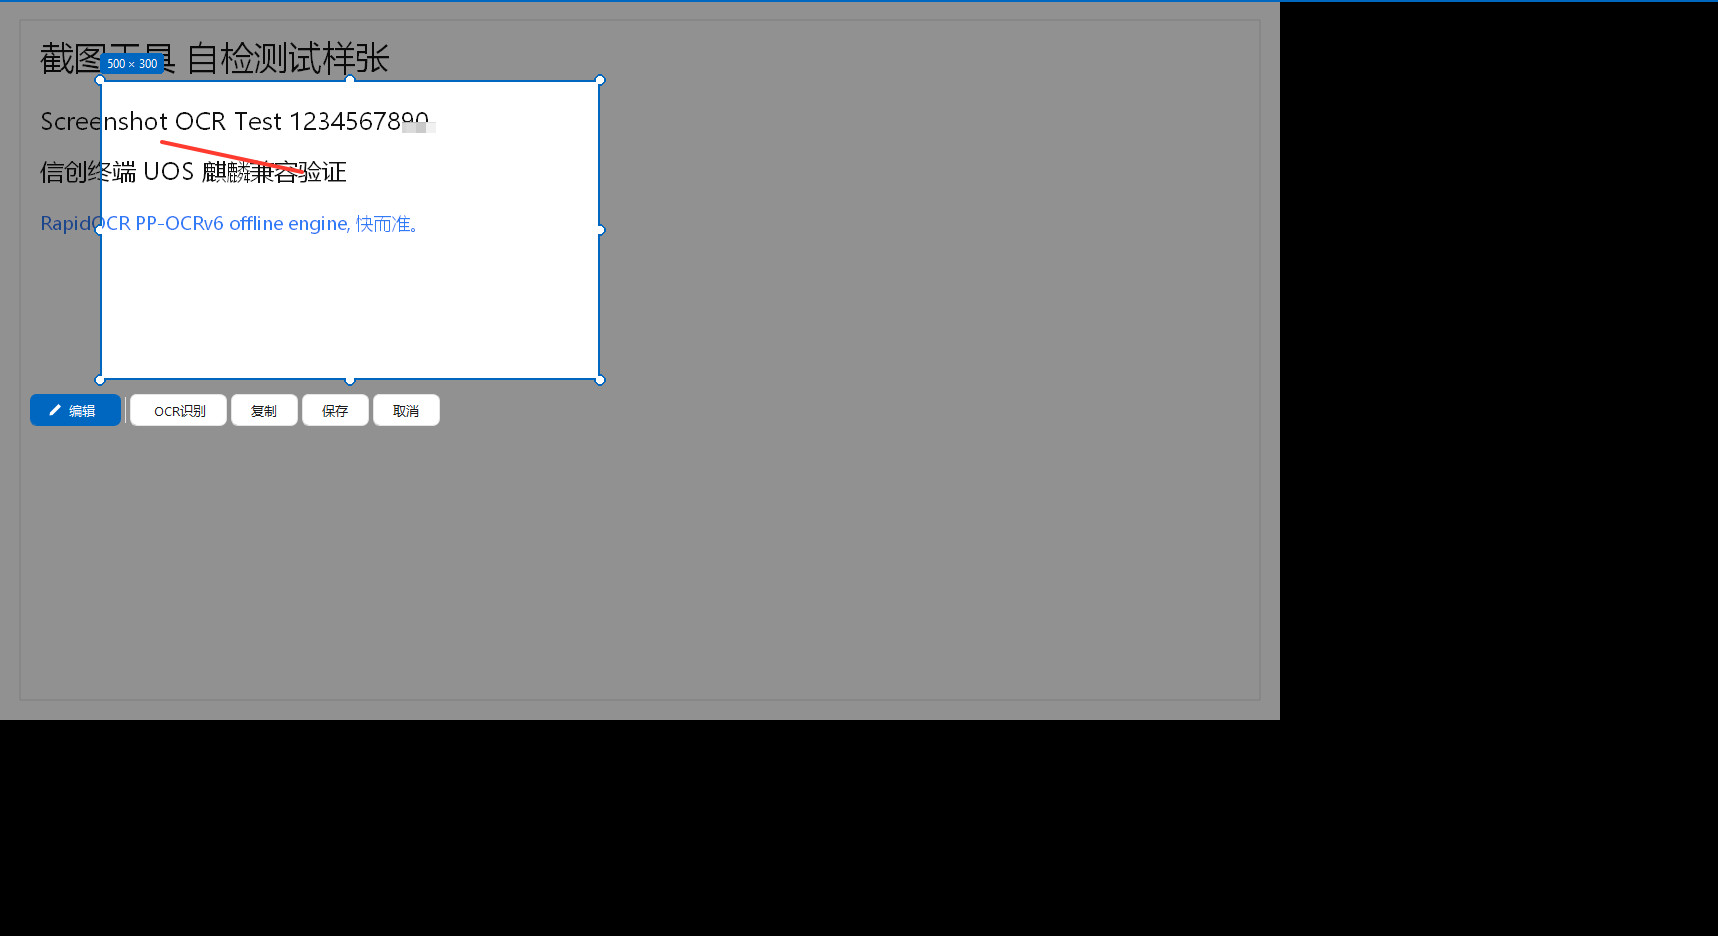
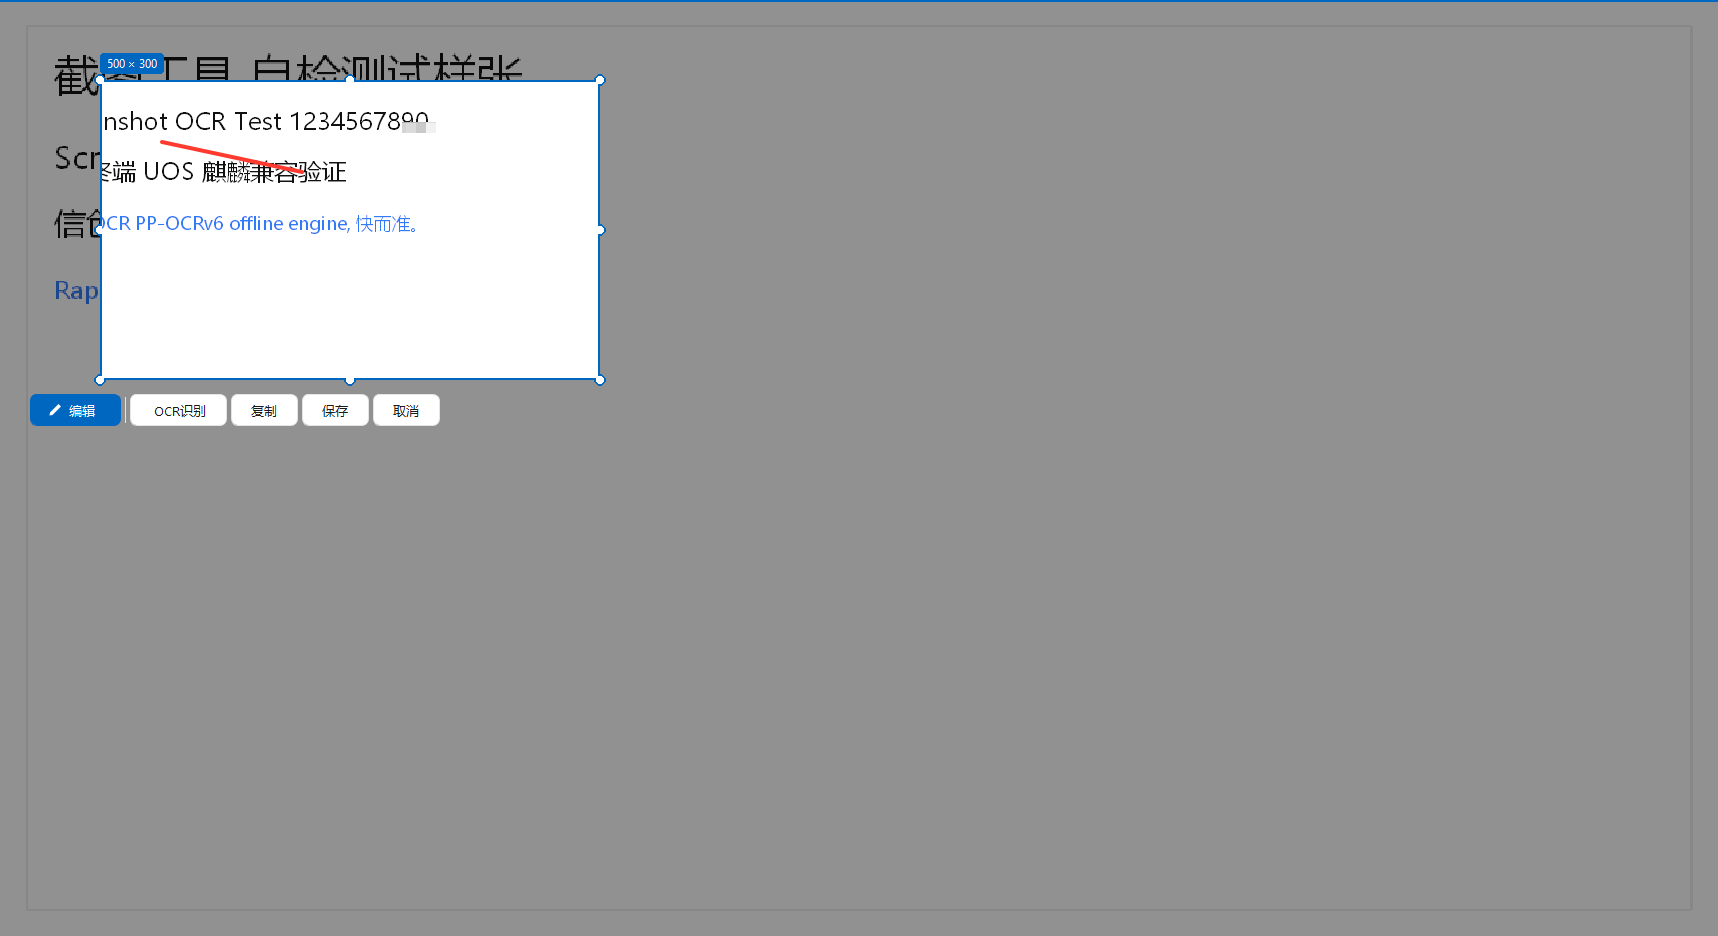
fix(overlay): eliminate vertical smear when dragging selection on HiDPI
Windows at >100% scaling (125%/150%/200%) showed vertical ghosting trails
while dragging the capture selection; 100% scaling was unaffected.

Root cause (code reasoning - not reproducible locally, see below): Qt
converts logical dirty rects to device pixels with rounding, so when the
backing store is ceil(w*dpr) while the dirty region is floor(w*dpr), the
rightmost/bottommost device-pixel column never enters the dirty region and
keeps the previous frame's content. dpr=1 involves no rounding, which
matches the report exactly.

Defensive fixes (3 layers):
- _update_all(): update(QRect(0,0,w,h).adjusted(-1,-1,1,1)) for all 7
  full-window updates, covering the rounding gap
- base image drawn with an explicit target rect so the pixmap is
  guaranteed to cover every backing-store pixel
- magnifier dirty margin +-2 -> +-3 (1.5px pen width + antialiasing)

Verification: new probe UX-23 (3 assertions) guards the invariants;
QT_SCALE_FACTOR=1.25 HiDPI sweep shows no local regression;
regression probes 137 -> 140; gate 6/6.

Note: the defect lives in the client's compositor path and could not be
reproduced locally (QWidget::grab, QScreen::grabWindow and a simulated
HiDPI screen all render cleanly) - the fix is defensive by design.

diff --git a/src/snapocr/ui/overlay.py b/src/snapocr/ui/overlay.py
@@ -12,7 +12,7 @@
 import os
 import time
 
-from PyQt5.QtCore import QPointF, QRectF, Qt, QTimer, pyqtSignal
+from PyQt5.QtCore import QPointF, QRect, QRectF, Qt, QTimer, pyqtSignal
 from PyQt5.QtGui import QColor, QFont, QImage, QPainter, QPen, QPixmap
 from PyQt5.QtWidgets import QLabel, QWidget
 
@@ -230,7 +230,7 @@ class OverlayWindow(QWidget):
         self._on_edit_toggle(True)  # 编辑菜单默认展开
         self.toolbar.show()
         self.toolbar.raise_()
-        self.update()
+        self._update_all()
 
     def _set_canvas_passthrough(self):
         """选择工具/未展开时画布对鼠标透明 → 遮罩处理移动/微调；绘制工具激活才接管。"""
@@ -286,11 +286,29 @@ class OverlayWindow(QWidget):
         self.toolbar.move(int(x), int(y))
 
     # ---------- 绘制 ----------
+    def _update_all(self):
+        """全窗口重绘（显式目标矩形，外扩 1 逻辑像素）。
+
+        为什么不用无参 `update()`：dpr≠1（125%/150%/200% 缩放）时 Qt 把逻辑 dirty
+        rect 换算成设备像素存在 rounding——若 backing store 宽 = ceil(w*dpr) 而
+        dirty 宽 = floor(w*dpr)，最右/最下一列设备像素**永远不在脏区里**，拖动选区
+        时该列残留上一帧内容，表现为**竖条残影**（客户机实测，100% 缩放不出现，
+        因 dpr=1 无 rounding）。外扩 1 逻辑像素（≥1 设备像素）可覆盖该缺口。
+        """
+        self.update(QRect(0, 0, self.width(), self.height()).adjusted(-1, -1, 1, 1))
+
     def paintEvent(self, ev):
         t = getattr(self, "_t", None) or theme.current()
         accent = t.accent
         p = QPainter(self)
-        p.drawPixmap(0, 0, self.pm)
+        # 底图显式铺满目标矩形（不用 drawPixmap(0,0,pm) 的隐式尺寸）：
+        # dpr≠1 时 pixmap 逻辑尺寸与窗口逻辑尺寸的 rounding 可能差 1 设备像素，
+        # 隐式绘制会漏掉最右/最下一列 → 竖条残影。显式 target rect 由 Qt 拉伸铺满。
+        p.drawPixmap(
+            QRect(0, 0, self.width(), self.height()),
+            self.pm,
+            QRect(0, 0, self.pm.width(), self.pm.height()),
+        )
         p.fillRect(self.rect(), QColor(0, 0, 0, 110))
         # 兼容性关键：表面须含不透明区域，否则部分环境 DWM 丢弃首帧
         p.fillRect(0, 0, self.width(), 2, accent)
@@ -398,7 +416,7 @@ class OverlayWindow(QWidget):
             r = old
         else:
             r = old.united(new)
-        self.update(r.toAlignedRect().adjusted(-2, -2, 2, 2))
+        self.update(r.toAlignedRect().adjusted(-3, -3, 3, 3))
 
     def _draw_magnifier(self, p, pos):
         zoom = MAG_ZOOM
@@ -529,14 +547,14 @@ class OverlayWindow(QWidget):
         self.drag_start = QPointF(ev.pos())
         self.press_pos = QPointF(ev.pos())
         self.sel = QRectF(self.drag_start, self.drag_start)
-        self.update()
+        self._update_all()
 
     def mouseMoveEvent(self, ev):
         pos = ev.pos()
         self._mouse_pos = QPointF(pos)
         if self.dragging:
             self.sel = QRectF(self.drag_start, QPointF(pos)).normalized()
-            self.update()
+            self._update_all()
             return
         if self.finalized:
             if self.drag_mode == "move":
@@ -555,7 +573,7 @@ class OverlayWindow(QWidget):
             h = self._detect_window(pos)
             if h != self.hover_rect:
                 self.hover_rect = h
-                self.update()  # 高亮框变化：整屏重绘一次
+                self._update_all()  # 高亮框变化：整屏重绘一次
             else:
                 self._update_magnifier_dirty(QPointF(pos))  # 否则只重绘放大镜小窗
 
@@ -595,7 +613,7 @@ class OverlayWindow(QWidget):
             self.canvas.set_base(self.img.copy(self._dev_rect(self._content_rect())))
             self.canvas.shift_strokes(-delta.x() * self.dpr, -delta.y() * self.dpr)
         self._reposition_toolbar()
-        self.update()
+        self._update_all()
 
     def _resize(self, pos):
         r = QRectF(self.sel)
@@ -622,7 +640,7 @@ class OverlayWindow(QWidget):
             self.canvas.set_base(self.img.copy(self._dev_rect(self._content_rect())))
             self.canvas.shift_strokes(-delta.x() * self.dpr, -delta.y() * self.dpr)
         self._reposition_toolbar()
-        self.update()
+        self._update_all()
 
     def mouseReleaseEvent(self, ev):
         if ev.button() == Qt.RightButton:
@@ -644,7 +662,7 @@ class OverlayWindow(QWidget):
                 self.sel = QRectF(self.hover_rect)  # 单击选中识别到的窗口
             if self.sel is None or self.sel.width() < 8 or self.sel.height() < 8:
                 self.sel = None
-                self.update()
+                self._update_all()
                 return
             self._finalize()
             return

diff --git a/scripts/probes/ux_suite.py b/scripts/probes/ux_suite.py
@@ -81,6 +81,13 @@ def _sweep_release(pos):
     )
 
 
+def _src_overlay() -> str:
+    """读取 overlay 源码（供源码级不变量断言）。"""
+    from pathlib import Path as _P
+
+    return _P("src/snapocr/ui/overlay.py").read_text(encoding="utf-8")
+
+
 def run(ctx):
     """执行 UX-16 ~ UX-21 全部断言（断言计数由主文件的 check 回调累加）。"""
     app = ctx.app
@@ -404,4 +411,49 @@ def run(ctx):
     _tb_i.deleteLater()
     _i18n.init_lang("zh")
     check("UX-21 档位键中文回落", _i18n.tr("width_thin") == "细")
+    app.processEvents()
+
+    # ---- UX-23 dpr≠1 拖动残影防御（2026-10-21 客户机反馈）----
+    # 现象：Windows 100% 缩放拖动选区正常；>100%（125%/150%/200%）出现竖条残影。
+    # 根因（代码推理 + 本地 QT_SCALE_FACTOR 模拟无法复现，属合成层差异）：
+    #   dpr≠1 时 Qt 把逻辑 dirty rect 换算设备像素存在 rounding，若 backing store
+    #   宽 = ceil(w*dpr) 而 dirty 宽 = floor(w*dpr)，最右/最下一列设备像素永不重绘；
+    #   隐式 drawPixmap(0,0,pm) 的底图尺寸也可能差 1 设备像素。
+    # 修复：全量更新走 _update_all()（目标 rect 外扩 1 逻辑 px）+ 底图显式铺满
+    #   目标矩形 + 放大镜脏区余量 ±3。以下断言守住这三个不变量。
+    ovd = OverlayWindow(scr, QPixmap.fromImage(_sample_image(800, 600)), cfg)
+    ovd.show()
+    app.processEvents()
+    _caught = []
+    _orig_update = ovd.update
+    ovd.update = lambda r: _caught.append(r)
+    ovd._update_all()
+    ovd.update = _orig_update
+    _r = _caught[0]
+    check(
+        "UX-23 全量更新覆盖窗口+1px",
+        _r.left() <= -1
+        and _r.top() <= -1
+        and _r.right() >= ovd.width()
+        and _r.bottom() >= ovd.height(),
+    )
+    # 放大镜脏区必须完整覆盖放大镜矩形（拖动/hover 时旧 tile 才能被清除）
+    ovd._mouse_pos = QPointF(100, 100)
+    _caught2 = []
+    ovd.update = lambda r: _caught2.append(r)
+    ovd._mag_rect = None
+    ovd._update_magnifier_dirty(QPointF(100, 100))
+    ovd.update = _orig_update
+    _expect = ovd._magnifier_rect(QPointF(100, 100))
+    check(
+        "UX-23 放大镜脏区覆盖放大镜矩形",
+        bool(_caught2) and _caught2[0].contains(_expect.toAlignedRect()),
+    )
+    # 底图显式铺满：paintEvent 用目标矩形而非隐式尺寸
+    ovd.repaint()
+    check(
+        "UX-23 底图显式铺满目标矩形", "QRect(0, 0, self.width(), self.height())" in _src_overlay()
+    )
+    ovd.hide()
+    ovd.deleteLater()
     app.processEvents()

diff --git a/docs/07-测试计划与加固方案.md b/docs/07-测试计划与加固方案.md
@@ -68,7 +68,7 @@
 |---|---|---|
 | `scripts/gate.py`（+ 根目录 `check.bat`） | **一键门禁**：格式 + 静态检查 + 编译 + 下方全部测试 | 6 项 |
 | `scripts/test_plan_probe.py` | 原测试计划 T1/T2/T4 的崩溃、回归、安全守住项 | 21 项 |
-| `scripts/test_fix_probe.py` | 《问题与优化总表》中标注"需修复"条目的行为验证（线程回收、HiDPI WYSIWYG 像素级、单实例三态、设置窗与配置、spec 瘦身过滤、主题渲染、`--exit` 子进程等） | 137 项（其中 2 项依赖"无实例"前置条件，不满足时 `SKIP`） |
+| `scripts/test_fix_probe.py` | 《问题与优化总表》中标注"需修复"条目的行为验证（线程回收、HiDPI WYSIWYG 像素级、单实例三态、设置窗与配置、spec 瘦身过滤、主题渲染、`--exit` 子进程等） | 140 项（其中 2 项依赖"无实例"前置条件，不满足时 `SKIP`） |
 | `src/run.py --selftest` | 模型/引擎端到端与主要界面构件 | 11 项 |
 
 > 探针的副作用隔离约定：配置写入重定向到 `.tmp/probe_config.json`；`set_autostart` 在测试中被
@@ -84,7 +84,7 @@
    后者直接关掉用户正在运行的程序。测试必须无副作用。
 
 因此**禁止**用 `try_connect` 直接做"有没有实例"的探测，必须走 `_instance_running()`。
-正常（无实例）运行时这两项仍会真实执行，计数保持 137 项。
+正常（无实例）运行时这两项仍会真实执行，计数保持 140 项。
 
 
 > 代码规范以 `pyproject.toml` 的 ruff 配置为准；提交前必须 `check.bat` 全绿。

diff --git a/docs/04-构建与发布指南.md b/docs/04-构建与发布指南.md
@@ -160,7 +160,7 @@ ubuntu-24.04-arm 出 arm64 deb。打 tag `v*` 触发。
 ## 5. 发布核对清单
 
 - [ ] **`check.bat`（质量门禁）6/6 全绿** —— 覆盖格式检查、静态检查、语法编译、回归探针 21 项、
-      修复项探针 137 项（其中 2 项依赖"无实例"前置条件，开着托盘程序时会 `SKIP`）、端到端自检 11 项；
+      修复项探针 140 项（其中 2 项依赖"无实例"前置条件，开着托盘程序时会 `SKIP`）、端到端自检 11 项；
       标准以 `pyproject.toml` 的 ruff 配置为准（行宽 100、规则集 E/F/W/I/B/C4/SIM/RUF/UP）
 - [ ] 界面有改动时已重建画廊：`python src/run.py --gallery both`
 - [ ] `vc_redist.x64.exe` 已放入 `deploy/windows/`（否则干净系统首次 OCR 会崩）

diff --git a/README.md b/README.md
@@ -41,7 +41,7 @@ python -m venv .venv
 python scripts\download_models.py        # 构建机联网拉取模型到 resources/models
 dev.bat --selftest                       # 自检（OCR/遮罩/编辑器/剪贴板/UI截图）
 python scripts\test_plan_probe.py        # 回归守住项探针（21 项）
-python scripts\test_fix_probe.py         # 问题总表修复项验证探针（137 项）
+python scripts\test_fix_probe.py         # 问题总表修复项验证探针（140 项）
 deploy\windows\build_all.bat             # 产出绿色版 zip + 安装版 exe
 ```
 

diff --git a/docs/06-信创构建与部署指南.md b/docs/06-信创构建与部署指南.md
@@ -113,7 +113,7 @@ sudo apt install ./snapocr_1.0.0_amd64.deb
 snapocr --selftest          # 11 项全 PASS（模型/裁剪/撤销/剪贴板等）
 ldd /opt/snapocr/SnapOCR | grep -i "not found"   # 不应有缺失库
 python3 scripts/test_plan_probe.py    # 21 项回归探针（源码目录内执行）
-python3 scripts/test_fix_probe.py     # 137 项修复项探针（无实例在跑时全跑；否则 2 项 SKIP）
+python3 scripts/test_fix_probe.py     # 140 项修复项探针（无实例在跑时全跑；否则 2 项 SKIP）
 ```
 
 | 检查项 | 预期 |
